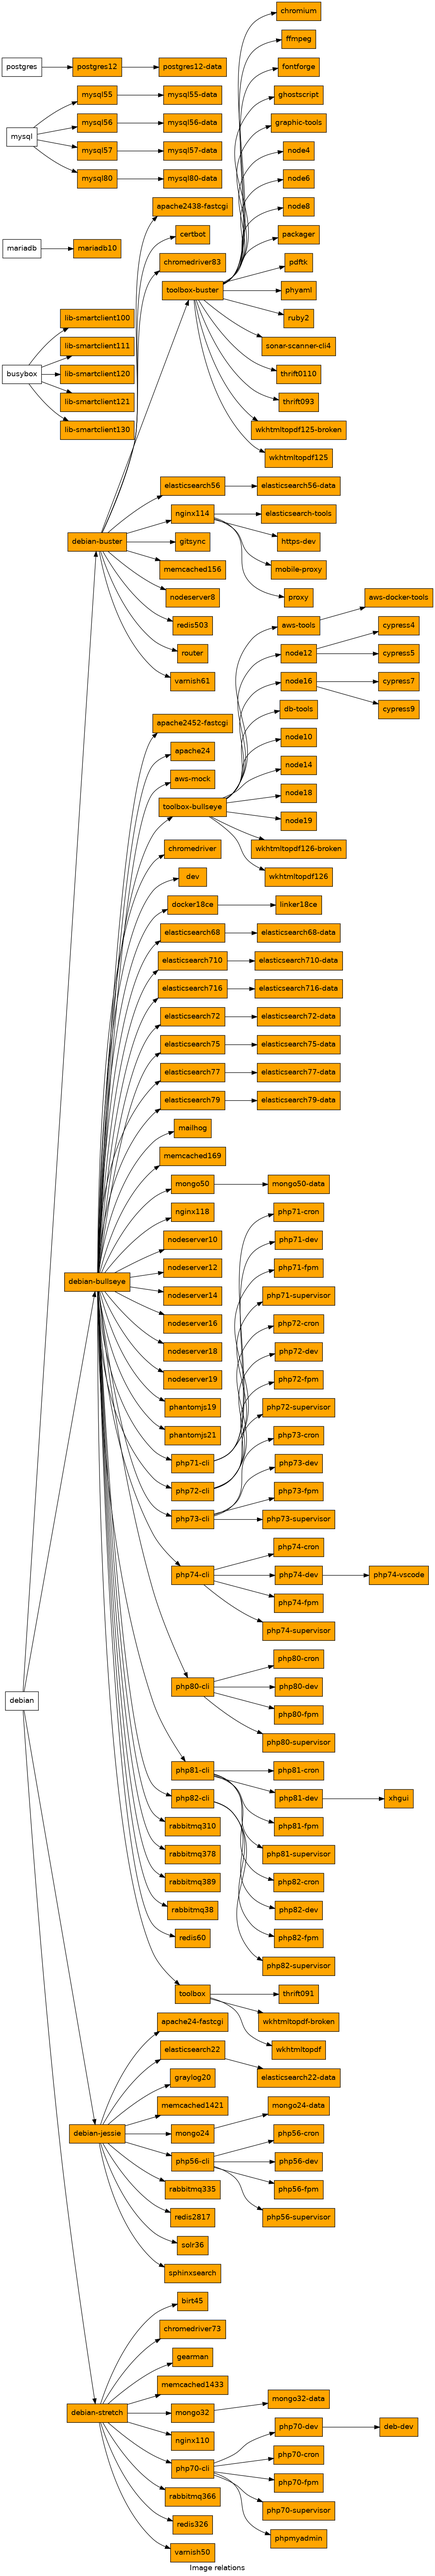
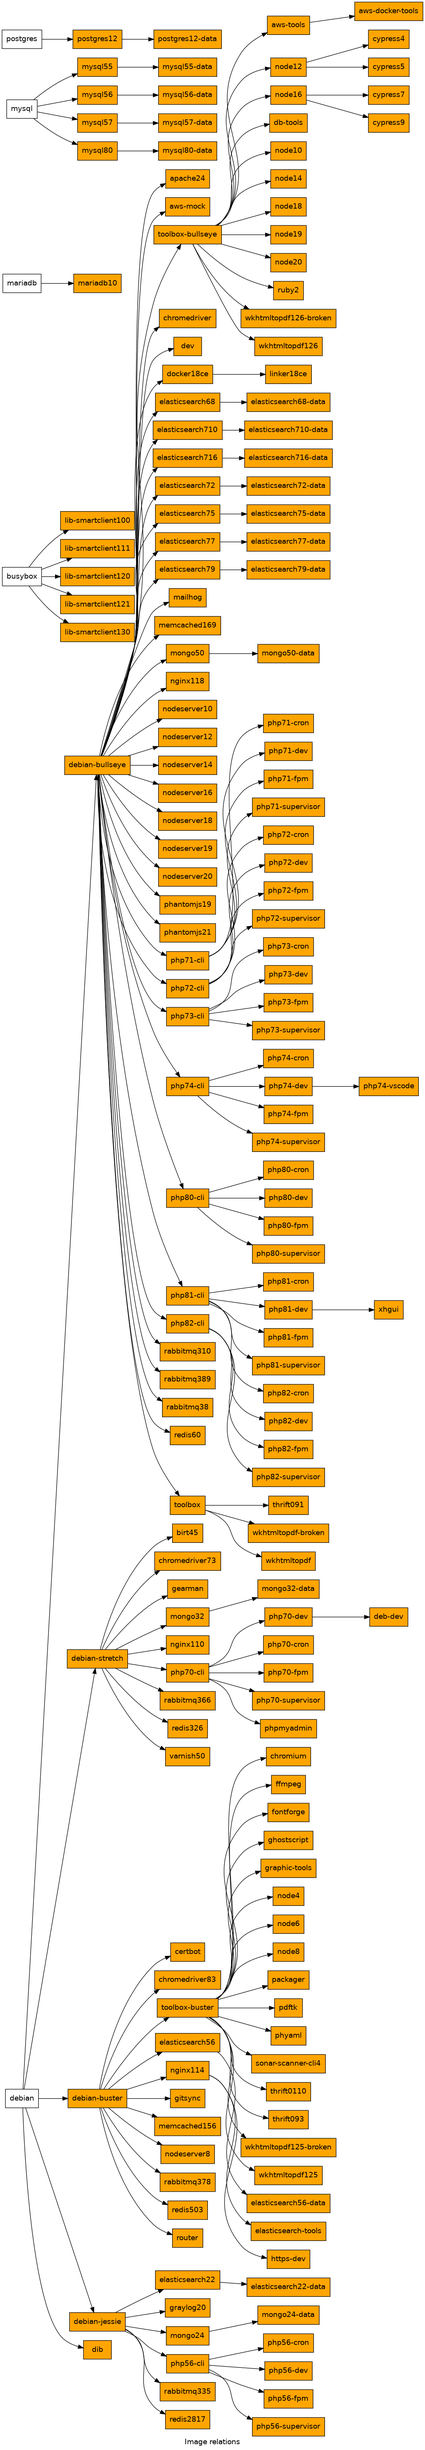
Rabbitmq38 made multiarch, updated tests/gitlab-ci.yml

diff --git a/VERSION_RECOMMENDATIONS.md b/VERSION_RECOMMENDATIONS.md
@@ -4,7 +4,7 @@
 | [nginx](https://packages.debian.org/search?keywords=nginx&searchon=names&suite=all&section=all) | nginx118 | nginx114 |
 | [mysql](https://en.wikipedia.org/wiki/MySQL#Release_history) | mysql80 | mysql57 |
 | [php](https://www.php.net/supported-versions.php) | php82 | php81 |
-| [node](https://nodejs.org/en/download/releases) | node18 | node19 |
+| [node](https://nodejs.org/en/download/releases) | node20 | node19 |
 | [rabbitmq](https://packages.debian.org/search?suite=all&section=all&arch=any&searchon=names&keywords=rabbitmq-server) | rabbitmq310 | rabbitmq38 |
 | [redis](https://packages.debian.org/search?suite=all&section=all&arch=any&searchon=names&keywords=redis) | redis60 | redis503 |
 | [elasticsearch](https://www.elastic.co/support/eol) | elasticsearch716 | elasticsearch710 |
